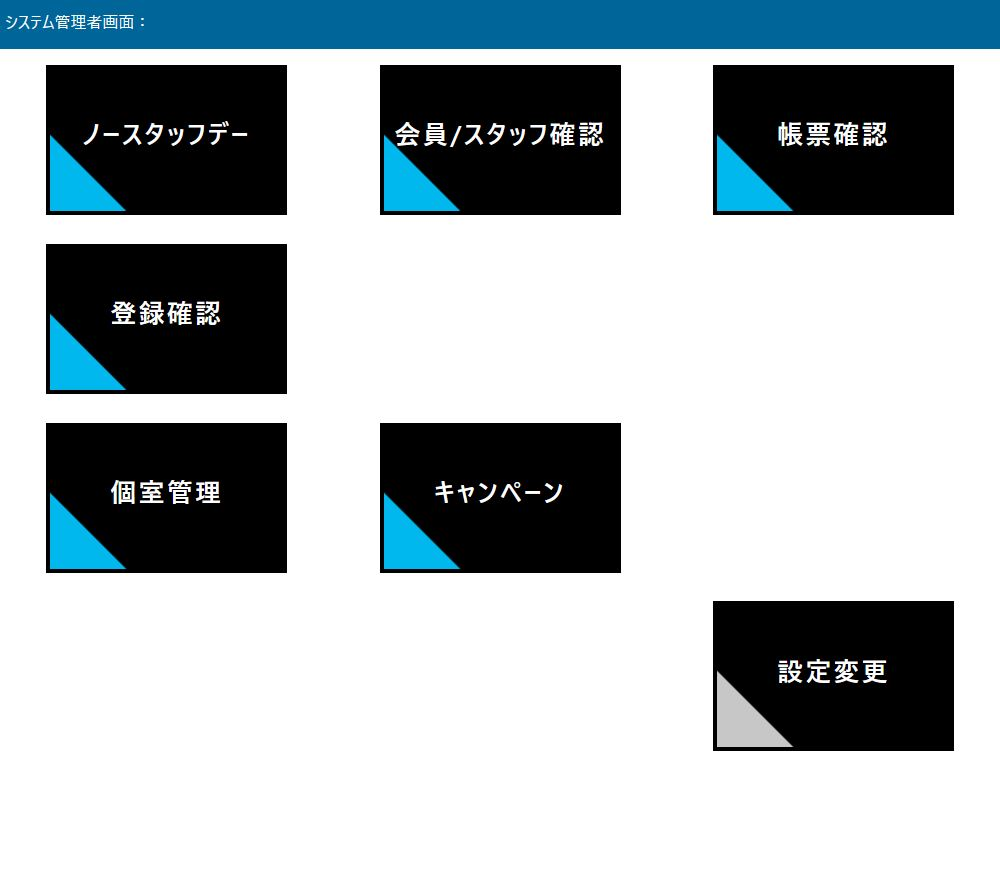
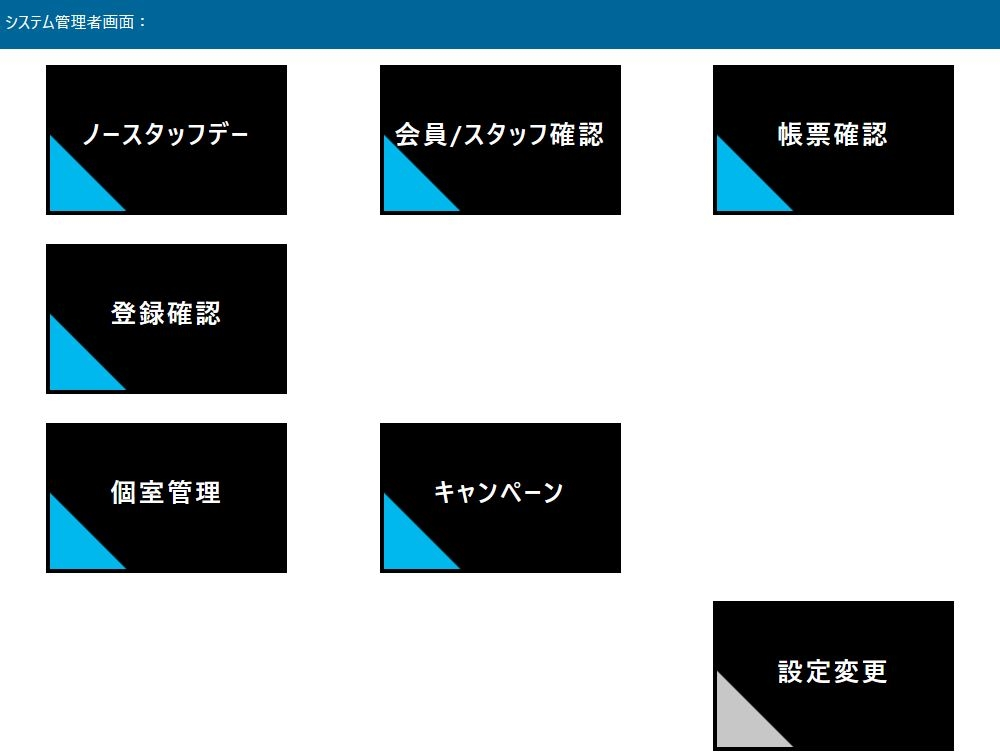
kousinn

diff --git a/pages/index.js b/pages/index.js
@@ -57,9 +57,9 @@ function HomePage() {
           <h2 className="text-2xl font-bold mt-8 bg-gray-500 shadow-sm text-white p-3">システムツール・フロントデザイン</h2>
           <Image
             src="/system-tool.jpg"
-            alt="system-tool-img"
+            alt="system"
             width={1000}
-            height={886}
+            height={754}
           />
           <p>アルバイトでの業務にて自社のシステムツールを作成しました。</p>
           <p>バックエンドはSEの方がを構築中の段階で、私は、フロントデザインを任されました。</p>
@@ -67,7 +67,7 @@ function HomePage() {
           <p>謎に空いているスペースは権限によって閲覧できるコンテンツが変わるためです</p>
 
           <h2 className="text-2xl font-bold mt-8 bg-gray-500 shadow-sm text-white p-3">FC募集ページ</h2>
-          <a href="https://gradation-app.vercel.app/" class='text-blue-600 hover:text-blue-400'>https://www.alltimefitness.jp/franchise/index.html</a>
+          <a href="https://www.alltimefitness.jp/franchise/index.html" class='text-blue-600 hover:text-blue-400'>https://www.alltimefitness.jp/franchise/index.html</a>
           <Image
             src="/FC.jpg"
             alt="FC"
@@ -76,7 +76,7 @@ function HomePage() {
           />
           <p>アルバイトでの最初の業務にてフランチャイズ募集ページを作成しました。</p>
           <p>表示するコンテンツの選定→AdobeXDでサンプル作成→コーディングのステップを踏んで作成しました。</p>
-          <p>一部画像のデザインも一人で作成したのですが、Adobe系ツールをガッツリ触れることができたので良かったです</p>
+          <p>9割がた画像のデザインも一人で作成したのですが、Adobe系ツールをガッツリ触れることができたので良かったです</p>
         </div>
       </Container>
     </>

diff --git a/components/Footer.js b/components/Footer.js
@@ -3,8 +3,8 @@ import React from 'react'
 const Footer = () => {
     return (
         <div className='bg-gray-500 mt-10 pb-2'>
-            <p className='text-gray-300 text-center'>最終更新2022/01/10</p>
-            <p className='text-gray-300 text-center mt-8'>©2021-2022 kitagawa</p>
+            <p className='text-gray-300 text-center'>最終更新2022/05/14</p>
+            <p className='text-gray-300 text-center mt-8'>©2021-2022 low0409</p>
         </div>
     )
 }
